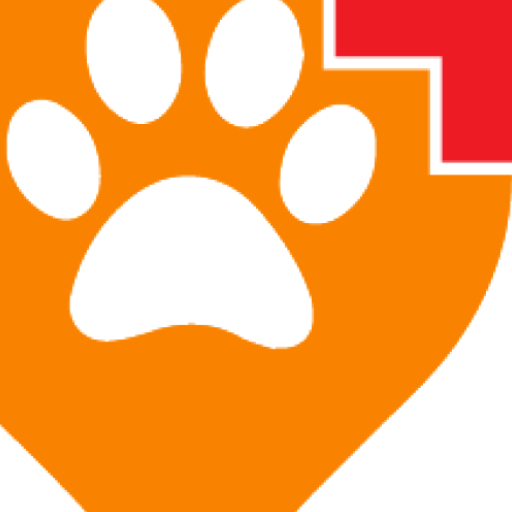
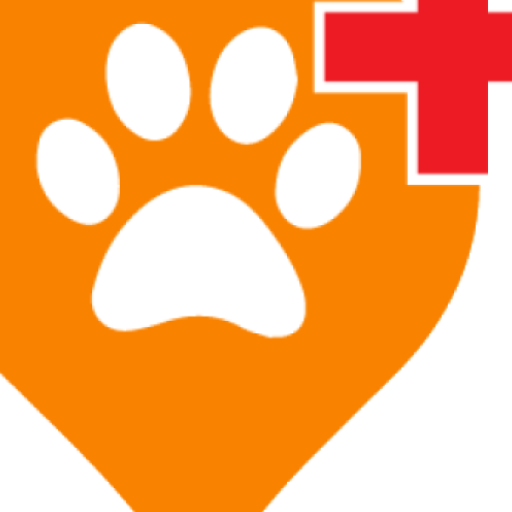
Add files via upload

diff --git a/web/index.html b/web/index.html
@@ -27,7 +27,7 @@
   <link rel="apple-touch-icon" href="icons/help_a_paw_res.png">
 
   <!-- Favicon -->
-  <link rel="icon" type="image/png" href="icons/canned_food.png"/>
+  <link rel="icon" type="image/png" href="icons/kitty_super.png"/>
 
   <title>help_a_paw</title>
   <link rel="manifest" href="manifest.json">

diff --git a/android/app/src/main/java/io/flutter/plugins/GeneratedPluginRegistrant.java b/android/app/src/main/java/io/flutter/plugins/GeneratedPluginRegistrant.java
@@ -21,6 +21,11 @@ public final class GeneratedPluginRegistrant {
       Log.e(TAG, "Error registering plugin cloud_firestore, io.flutter.plugins.firebase.firestore.FlutterFirebaseFirestorePlugin", e);
     }
     try {
+      flutterEngine.getPlugins().add(new com.example.desktop_webview_auth.DesktopWebviewAuthPlugin());
+    } catch(Exception e) {
+      Log.e(TAG, "Error registering plugin desktop_webview_auth, com.example.desktop_webview_auth.DesktopWebviewAuthPlugin", e);
+    }
+    try {
       flutterEngine.getPlugins().add(new io.flutter.plugins.firebase.auth.FlutterFirebaseAuthPlugin());
     } catch(Exception e) {
       Log.e(TAG, "Error registering plugin firebase_auth, io.flutter.plugins.firebase.auth.FlutterFirebaseAuthPlugin", e);
@@ -29,6 +34,11 @@ public final class GeneratedPluginRegistrant {
       flutterEngine.getPlugins().add(new io.flutter.plugins.firebase.core.FlutterFirebaseCorePlugin());
     } catch(Exception e) {
       Log.e(TAG, "Error registering plugin firebase_core, io.flutter.plugins.firebase.core.FlutterFirebaseCorePlugin", e);
+    }
+    try {
+      flutterEngine.getPlugins().add(new io.flutter.plugins.firebase.dynamiclinks.FlutterFirebaseDynamicLinksPlugin());
+    } catch(Exception e) {
+      Log.e(TAG, "Error registering plugin firebase_dynamic_links, io.flutter.plugins.firebase.dynamiclinks.FlutterFirebaseDynamicLinksPlugin", e);
     }
     try {
       flutterEngine.getPlugins().add(new io.flutter.plugins.flutter_plugin_android_lifecycle.FlutterAndroidLifecyclePlugin());
@@ -49,11 +59,6 @@ public final class GeneratedPluginRegistrant {
       flutterEngine.getPlugins().add(new dev.flutter.plugins.integration_test.IntegrationTestPlugin());
     } catch(Exception e) {
       Log.e(TAG, "Error registering plugin integration_test, dev.flutter.plugins.integration_test.IntegrationTestPlugin", e);
-    }
-    try {
-      flutterEngine.getPlugins().add(new com.baseflow.permissionhandler.PermissionHandlerPlugin());
-    } catch(Exception e) {
-      Log.e(TAG, "Error registering plugin permission_handler_android, com.baseflow.permissionhandler.PermissionHandlerPlugin", e);
     }
     try {
       flutterEngine.getPlugins().add(new io.flutter.plugins.sharedpreferences.SharedPreferencesPlugin());
